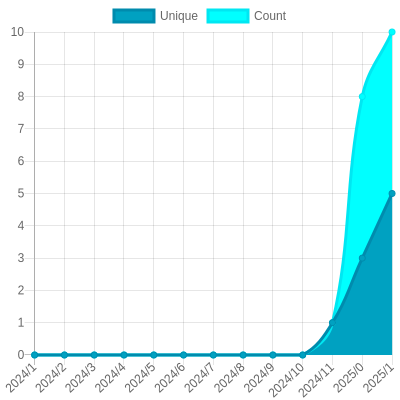
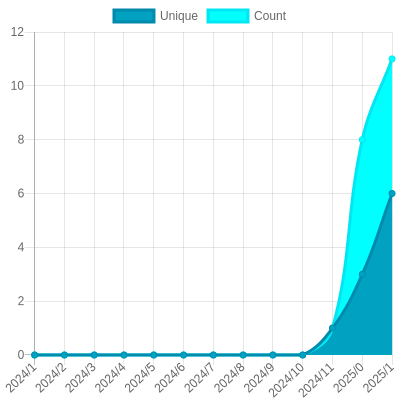
Update views

diff --git a/readme/463966936/year.md b/readme/463966936/year.md
@@ -23,10 +23,10 @@
 			<code>2024/2/1</code>
 		</td>
 		<td>
-			<code>5</code>
+			<code>6</code>
 		</td>
 		<td>
-			<code>10</code>
+			<code>11</code>
 		</td>
 	</tr>
 	<tr>
@@ -164,7 +164,7 @@
 </table>
 
 </details>
-<small><i>Last updated on 2024/2/22 6:17 AM UTC</i></small>
+<small><i>Last updated on 2024/2/22 12:23 PM UTC</i></small>
 
 ## ✂Copy and 📋 Paste
 ### SVG Badge

diff --git a/README.md b/README.md
@@ -165,7 +165,7 @@ The project created and maintained by [gayanvoice](https://github.com/gayanvoice
 	</tr>
 </table>
 
-<small><i>Last updated on 2024/2/22 6:18 AM UTC</i></small>
+<small><i>Last updated on 2024/2/22 12:24 PM UTC</i></small>
 
 ## ✂Copy and 📋 Paste
 ### Total Views Badge

diff --git a/readme/220609192/year.md b/readme/220609192/year.md
@@ -164,7 +164,7 @@
 </table>
 
 </details>
-<small><i>Last updated on 2024/2/22 6:17 AM UTC</i></small>
+<small><i>Last updated on 2024/2/22 12:23 PM UTC</i></small>
 
 ## ✂Copy and 📋 Paste
 ### SVG Badge

diff --git a/readme/220784798/year.md b/readme/220784798/year.md
@@ -164,7 +164,7 @@
 </table>
 
 </details>
-<small><i>Last updated on 2024/2/22 6:18 AM UTC</i></small>
+<small><i>Last updated on 2024/2/22 12:24 PM UTC</i></small>
 
 ## ✂Copy and 📋 Paste
 ### SVG Badge

diff --git a/readme/230987780/year.md b/readme/230987780/year.md
@@ -164,7 +164,7 @@
 </table>
 
 </details>
-<small><i>Last updated on 2024/2/22 6:17 AM UTC</i></small>
+<small><i>Last updated on 2024/2/22 12:24 PM UTC</i></small>
 
 ## ✂Copy and 📋 Paste
 ### SVG Badge

diff --git a/readme/258710053/year.md b/readme/258710053/year.md
@@ -164,7 +164,7 @@
 </table>
 
 </details>
-<small><i>Last updated on 2024/2/22 6:17 AM UTC</i></small>
+<small><i>Last updated on 2024/2/22 12:24 PM UTC</i></small>
 
 ## ✂Copy and 📋 Paste
 ### SVG Badge

diff --git a/readme/400504748/year.md b/readme/400504748/year.md
@@ -164,7 +164,7 @@
 </table>
 
 </details>
-<small><i>Last updated on 2024/2/22 6:17 AM UTC</i></small>
+<small><i>Last updated on 2024/2/22 12:23 PM UTC</i></small>
 
 ## ✂Copy and 📋 Paste
 ### SVG Badge

diff --git a/readme/458347282/year.md b/readme/458347282/year.md
@@ -164,7 +164,7 @@
 </table>
 
 </details>
-<small><i>Last updated on 2024/2/22 6:17 AM UTC</i></small>
+<small><i>Last updated on 2024/2/22 12:23 PM UTC</i></small>
 
 ## ✂Copy and 📋 Paste
 ### SVG Badge

diff --git a/readme/738753109/year.md b/readme/738753109/year.md
@@ -164,7 +164,7 @@
 </table>
 
 </details>
-<small><i>Last updated on 2024/2/22 6:17 AM UTC</i></small>
+<small><i>Last updated on 2024/2/22 12:23 PM UTC</i></small>
 
 ## ✂Copy and 📋 Paste
 ### SVG Badge

diff --git a/readme/743015662/year.md b/readme/743015662/year.md
@@ -164,7 +164,7 @@
 </table>
 
 </details>
-<small><i>Last updated on 2024/2/22 6:17 AM UTC</i></small>
+<small><i>Last updated on 2024/2/22 12:23 PM UTC</i></small>
 
 ## ✂Copy and 📋 Paste
 ### SVG Badge
